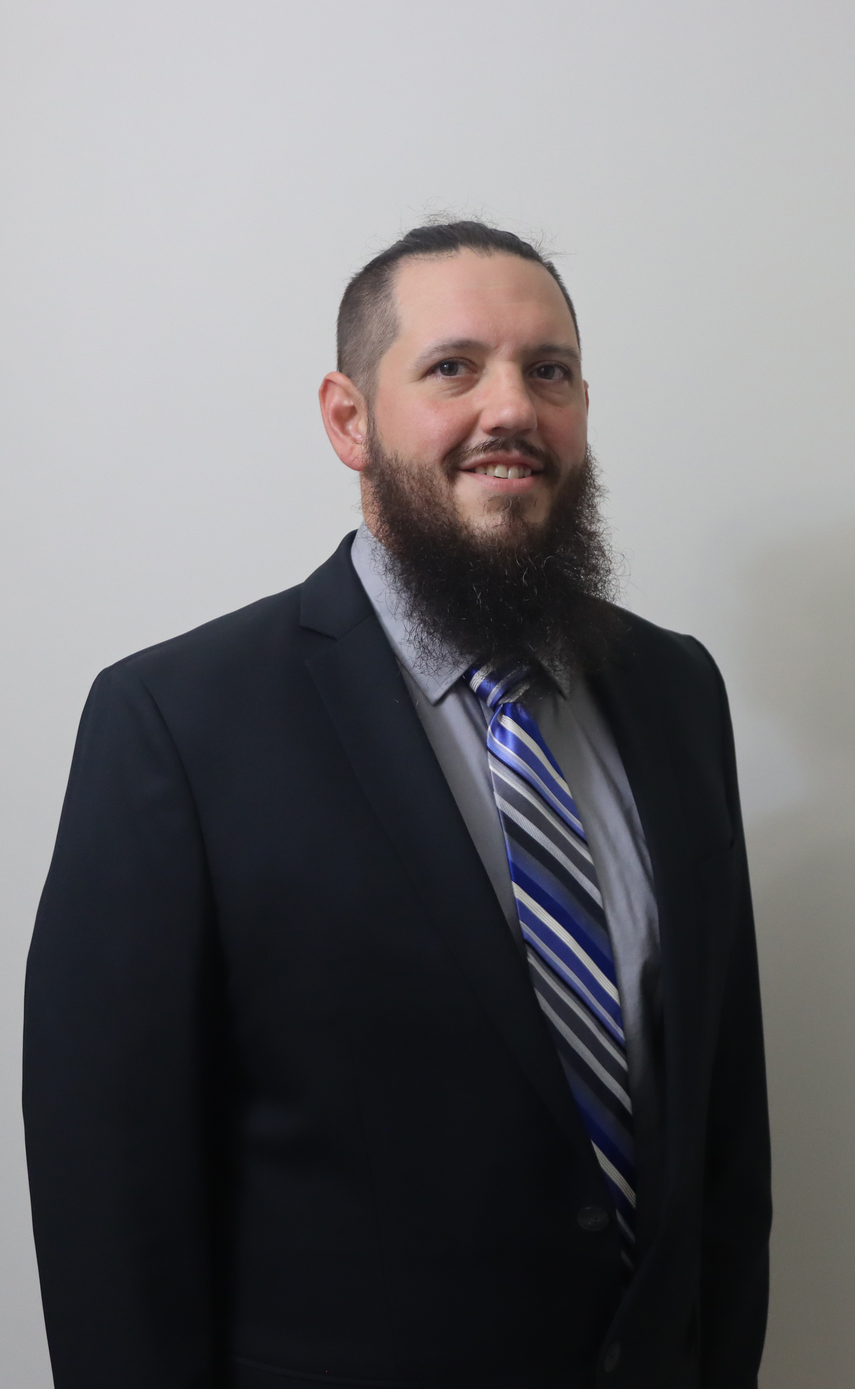
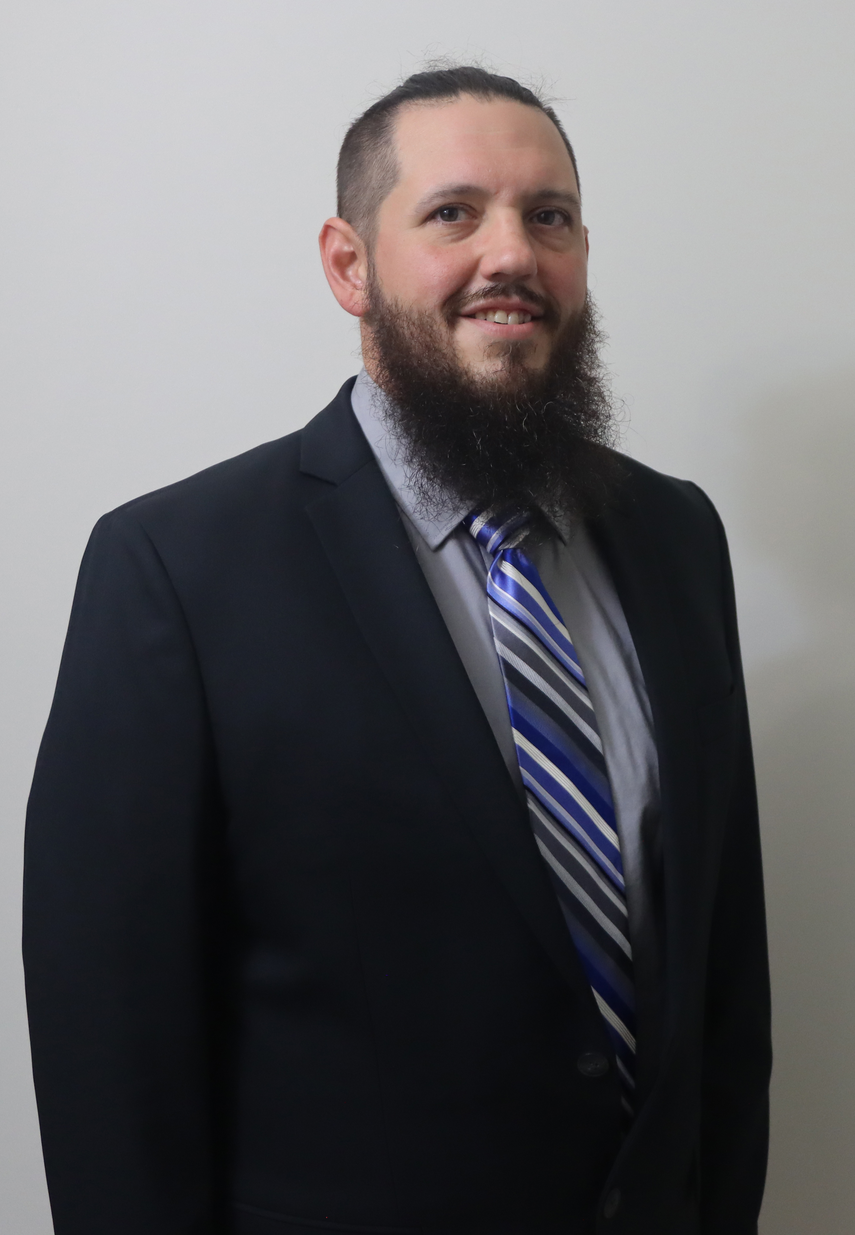
Header adjustments and cropping

diff --git a/kevin-karr.html b/kevin-karr.html
@@ -13,33 +13,63 @@
         <img src="assets/logo.png" alt="United for E-Town" width="48">
         <span class="brand-title">United for E-Town</span>
       </a>
-<nav class="menu">
-  <a href="about.html">About</a>
-  <a href="issues.html">Issues &amp; Advocacy</a>
-  <a href="mayor.html">Mayor 2025</a>
-  <a href="events.html">Events</a>
-  <a href="news.html">News</a>
-  <a href="candidates.html">Candidates</a>
-  <a class="cta" href="get-involved.html">Join</a>
-  <a class="cta secondary" href="donate.html">Donate</a>
-</nav>
-
+      <nav class="menu">
+        <a href="about.html">About</a>
+        <a href="issues.html">Issues &amp; Advocacy</a>
+        <a href="mayor.html">Mayor 2025</a>
+        <a href="events.html">Events</a>
+        <a href="news.html">News</a>
+        <a href="candidates.html">Candidates</a>
+        <a class="cta" href="get-involved.html">Join</a>
+        <a class="cta secondary" href="donate.html">Donate</a>
+      </nav>
     </div>
   </header>
 
   <main>
     <section class="section">
       <div class="container grid cols-2" style="align-items:start; gap:2rem">
-       <div class="profile">
-  <img src="assets/kevin.jpg" alt="Kevin Karr" loading="eager">
-</div>
+        <div class="profile">
+          <img src="assets/kevin.jpg" alt="Kevin Karr" loading="eager">
+        </div>
 
         <div>
           <h1>Kevin Karr</h1>
           <p class="small">Candidate for Judge of Elections</p>
 
           <h2>About Kevin</h2>
-          <p>Kevin Karr trained at culinary school, worked in professional kitchens, and built a career in the service industry. He knows the importance of precision, timing, and fairness — skills he now brings to public service.</p>
-          <p>
+          <p>Kevin Karr trained at culinary school, worked in professional kitchens, and built a career in the service industry. He knows the importance of precision, timing, and fairness — skills he brings to public service and election administration.</p>
+          <p>A lifelong Scout, Kevin leads younger scouts by living the Scout Oath and modeling calm, steady leadership.</p>
 
-			  
+          <h2>What the Judge of Elections Does</h2>
+          <ul>
+            <li>Oversees polling place operations on Election Day.</li>
+            <li>Works with inspectors and clerks to protect ballot integrity.</li>
+            <li>Ensures a fair, accessible process for every voter.</li>
+          </ul>
+
+          <div class="actions" style="margin-top:1rem">
+            <a class="btn ghost" href="candidates.html">← Back to Candidates</a>
+          </div>
+        </div>
+      </div>
+    </section>
+  </main>
+
+  <footer class="footer">
+    <div class="container">
+      <div class="grid cols-3">
+        <div>
+          <strong>United for E-Town</strong><br>
+          <span class="small">A community movement for strong schools, safe streets, and a shared future.</span>
+        </div>
+        <div>
+          <div class="small">Contact: <a href="mailto:unitedforetown@gmail.com">unitedforetown@gmail.com</a></div>
+          <div class="small">Facebook: <a href="https://facebook.com/UnitedForETown">UnitedForETown</a></div>
+        </div>
+        <div class="small">Paid for by United for E-Town. © 2025.</div>
+      </div>
+    </div>
+  </footer>
+</body>
+</html>

diff --git a/index.html b/index.html
@@ -128,10 +128,10 @@
           <strong>United for E-Town</strong><br>
           <span class="small">A community movement for strong schools, safe streets, and a shared future.</span>
         </div>
-        <div>
-          <div class="small">Contact: <a href="mailto:hello@unitedforetown.org">hello@unitedforetown.org</a></div>
-          <div class="small">Facebook: <a href="https://facebook.com/UnitedForETown" rel="me">/UnitedForETown</a></div>
-        </div>
+		<div>
+		  <div class="small">Contact: <a href="mailto:unitedforetown@gmail.com">unitedforetown@gmail.com</a></div>
+		  <div class="small">Facebook: <a href="https://facebook.com/UnitedForETown">UnitedForETown</a></div>
+		</div>
         <div class="small">Paid for by United for E-Town. © 2025.</div>
       </div>
     </div>

diff --git a/candidates.html b/candidates.html
@@ -64,10 +64,10 @@
           <strong>United for E-Town</strong><br>
           <span class="small">A community movement for strong schools, safe streets, and a shared future.</span>
         </div>
-        <div>
-          <div class="small">Contact: <a href="mailto:hello@unitedforetown.org">hello@unitedforetown.org</a></div>
-          <div class="small">Facebook: <a href="https://facebook.com/UnitedForETown">/UnitedForETown</a></div>
-        </div>
+		<div>
+		  <div class="small">Contact: <a href="mailto:unitedforetown@gmail.com">unitedforetown@gmail.com</a></div>
+		  <div class="small">Facebook: <a href="https://facebook.com/UnitedForETown">UnitedForETown</a></div>
+		</div>
         <div class="small">Paid for by United for E-Town. © 2025.</div>
       </div>
     </div>

diff --git a/corty-byron.html b/corty-byron.html
@@ -62,10 +62,10 @@
           <strong>United for E-Town</strong><br>
           <span class="small">A community movement for strong schools, safe streets, and a shared future.</span>
         </div>
-        <div>
-          <div class="small">Contact: <a href="mailto:hello@unitedforetown.org">hello@unitedforetown.org</a></div>
-          <div class="small">Facebook: <a href="https://facebook.com/UnitedForETown">/UnitedForETown</a></div>
-        </div>
+		<div>
+		  <div class="small">Contact: <a href="mailto:unitedforetown@gmail.com">unitedforetown@gmail.com</a></div>
+		  <div class="small">Facebook: <a href="https://facebook.com/UnitedForETown">UnitedForETown</a></div>
+		</div>
         <div class="small">Paid for by United for E-Town. © 2025.</div>
       </div>
     </div>

diff --git a/contact.html b/contact.html
@@ -63,10 +63,10 @@
             <strong>United for E‑Town</strong><br>
             <span class="small">A community movement for strong schools, safe streets, and a shared future.</span>
           </div>
-          <div>
-            <div class="small">Contact: <a href="mailto:hello@unitedforetown.org">hello@unitedforetown.org</a></div>
-            <div class="small">Facebook: <a href="#">/UnitedForETown</a></div>
-          </div>
+		<div>
+		  <div class="small">Contact: <a href="mailto:unitedforetown@gmail.com">unitedforetown@gmail.com</a></div>
+		  <div class="small">Facebook: <a href="https://facebook.com/UnitedForETown">UnitedForETown</a></div>
+		</div>
           <div class="small">Paid for by United for E‑Town. © 2025.</div>
         </div>
       </div>

diff --git a/donate.html b/donate.html
@@ -66,10 +66,10 @@
             <strong>United for E‑Town</strong><br>
             <span class="small">A community movement for strong schools, safe streets, and a shared future.</span>
           </div>
-          <div>
-            <div class="small">Contact: <a href="mailto:hello@unitedforetown.org">hello@unitedforetown.org</a></div>
-            <div class="small">Facebook: <a href="#">/UnitedForETown</a></div>
-          </div>
+		<div>
+		  <div class="small">Contact: <a href="mailto:unitedforetown@gmail.com">unitedforetown@gmail.com</a></div>
+		  <div class="small">Facebook: <a href="https://facebook.com/UnitedForETown">UnitedForETown</a></div>
+		</div>
           <div class="small">Paid for by United for E‑Town. © 2025.</div>
         </div>
       </div>

diff --git a/events.html b/events.html
@@ -66,10 +66,10 @@
             <strong>United for E‑Town</strong><br>
             <span class="small">A community movement for strong schools, safe streets, and a shared future.</span>
           </div>
-          <div>
-            <div class="small">Contact: <a href="mailto:hello@unitedforetown.org">hello@unitedforetown.org</a></div>
-            <div class="small">Facebook: <a href="#">/UnitedForETown</a></div>
-          </div>
+		<div>
+		  <div class="small">Contact: <a href="mailto:unitedforetown@gmail.com">unitedforetown@gmail.com</a></div>
+		  <div class="small">Facebook: <a href="https://facebook.com/UnitedForETown">UnitedForETown</a></div>
+		</div>
           <div class="small">Paid for by United for E‑Town. © 2025.</div>
         </div>
       </div>

diff --git a/get-involved.html b/get-involved.html
@@ -72,10 +72,10 @@
             <strong>United for E‑Town</strong><br>
             <span class="small">A community movement for strong schools, safe streets, and a shared future.</span>
           </div>
-          <div>
-            <div class="small">Contact: <a href="mailto:hello@unitedforetown.org">hello@unitedforetown.org</a></div>
-            <div class="small">Facebook: <a href="#">/UnitedForETown</a></div>
-          </div>
+		<div>
+		  <div class="small">Contact: <a href="mailto:unitedforetown@gmail.com">unitedforetown@gmail.com</a></div>
+		  <div class="small">Facebook: <a href="https://facebook.com/UnitedForETown">UnitedForETown</a></div>
+		</div>
           <div class="small">Paid for by United for E‑Town. © 2025.</div>
         </div>
       </div>

diff --git a/issues.html b/issues.html
@@ -75,10 +75,10 @@
             <strong>United for E‑Town</strong><br>
             <span class="small">A community movement for strong schools, safe streets, and a shared future.</span>
           </div>
-          <div>
-            <div class="small">Contact: <a href="mailto:hello@unitedforetown.org">hello@unitedforetown.org</a></div>
-            <div class="small">Facebook: <a href="#">/UnitedForETown</a></div>
-          </div>
+		<div>
+		  <div class="small">Contact: <a href="mailto:unitedforetown@gmail.com">unitedforetown@gmail.com</a></div>
+		  <div class="small">Facebook: <a href="https://facebook.com/UnitedForETown">UnitedForETown</a></div>
+		</div>
           <div class="small">Paid for by United for E‑Town. © 2025.</div>
         </div>
       </div>

diff --git a/about.html b/about.html
@@ -63,10 +63,10 @@
           <strong>United for E-Town</strong><br>
           <span class="small">A community movement for strong schools, safe streets, and a shared future.</span>
         </div>
-        <div>
-          <div class="small">Contact: <a href="mailto:hello@unitedforetown.org">hello@unitedforetown.org</a></div>
-          <div class="small">Facebook: <a href="#">/UnitedForETown</a></div>
-        </div>
+		<div>
+		  <div class="small">Contact: <a href="mailto:unitedforetown@gmail.com">unitedforetown@gmail.com</a></div>
+		  <div class="small">Facebook: <a href="https://facebook.com/UnitedForETown">UnitedForETown</a></div>
+		</div>
         <div class="small">Paid for by United for E-Town. © 2025.</div>
       </div>
     </div>

diff --git a/styles.css b/styles.css
@@ -225,7 +225,7 @@ ul.inline li{background:var(--bg-alt);border:1px solid #e5e7eb;padding:.35rem .6
   }
 }
 .corty .profile img { object-position: 50% 8%; }   /* try 8% */
-.kevin .profile img { object-position: 50% 30%; }
+.kevin .profile img { object-position: 50% 8%; }
 
 /* Candidates index: shift focal point up so heads aren't clipped */
 .candidates .card img { object-position: 50% 10%; }  /* try 10%; test 5–15% */
